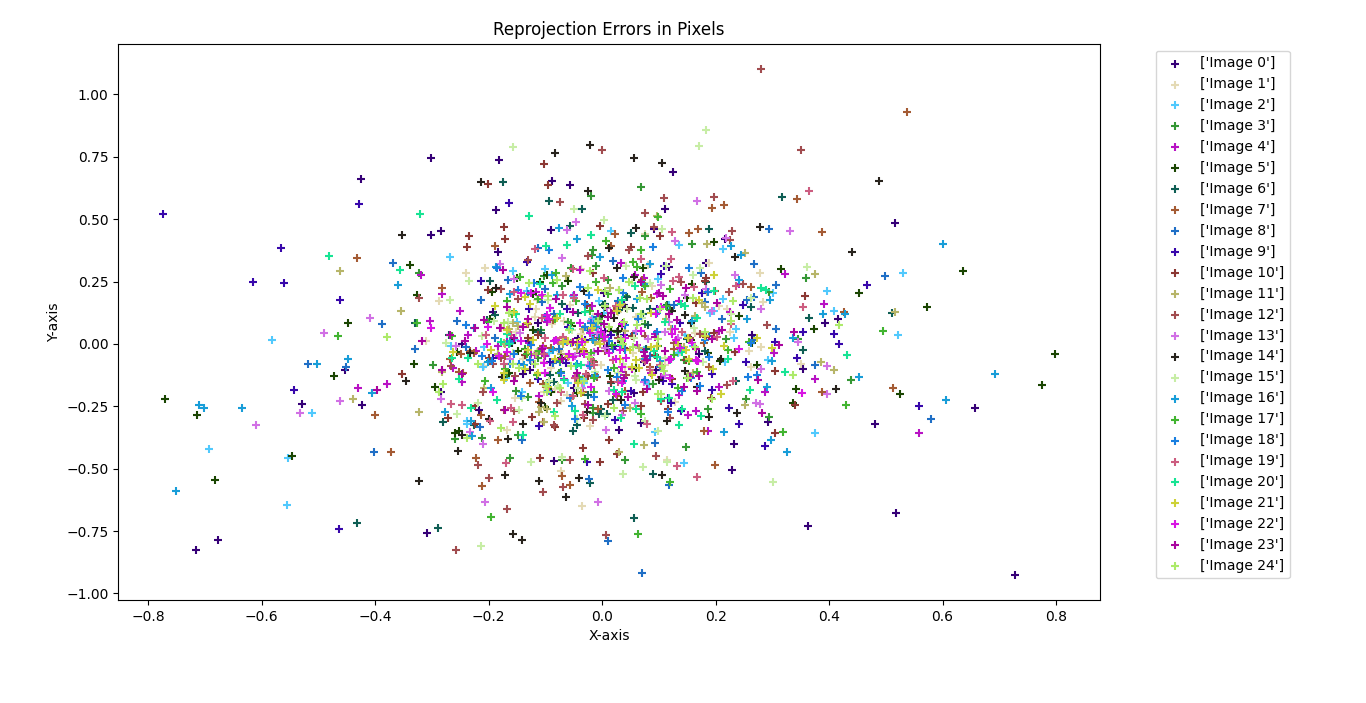
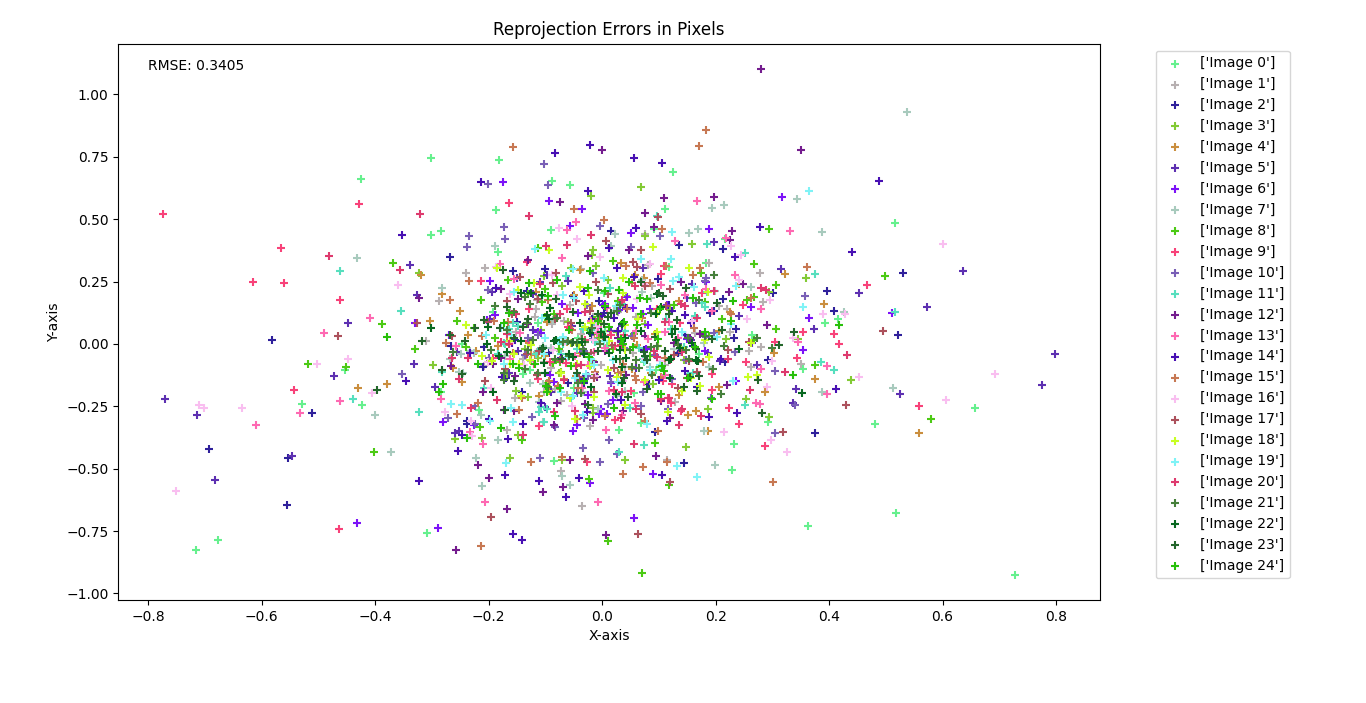
annotated rmse on scatter plots

diff --git a/single_calibration.py b/single_calibration.py
@@ -1,11 +1,13 @@
  # this script performs the calibration for a   single camera
-import random
-import numpy as np
-import matplotlib.pyplot as plt
-import cv2
 import glob
-from param_storage import  save_coefficients
+import random
 from turtle import color
+
+import cv2
+import matplotlib.pyplot as plt
+import numpy as np
+
+from param_storage import save_coefficients
 
 # termination criteria
 criteria = (cv2.TERM_CRITERIA_EPS + cv2.TERM_CRITERIA_MAX_ITER, 30, 0.001)
@@ -121,7 +123,7 @@ def plot_scatter(objpoints, imgpoints, tvecs, rvecs, mtx, dist):
     # plot legend outside the image
     plt.legend(bbox_to_anchor=(1.05,1.0), loc='upper left')
     plt.tight_layout()
-    plt.text(-1.4, 1.0, 'RMSE: ' + str(round(ret, 4)))
+    plt.text(-1.1, 1.7, 'RMSE: ' + str(round(ret, 4)))
     plt.show()
 
 
@@ -129,7 +131,7 @@ def plot_scatter(objpoints, imgpoints, tvecs, rvecs, mtx, dist):
 
 if __name__ == "__main__":
 
-    ret, mtx, dist, rvecs, tvecs, image_points, object_points = calibrate(path='images/cam2/take3', square_size=2.3)
+    ret, mtx, dist, rvecs, tvecs, image_points, object_points = calibrate(path='images/cam1/take1', square_size=2.3)
 
     save_coefficients(mtx, dist, tvecs[0], rvecs[0], 'cam.yml')
     p_error = projection_error(object_points, image_points, tvecs, rvecs, mtx, dist)
